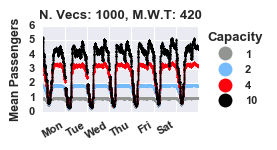
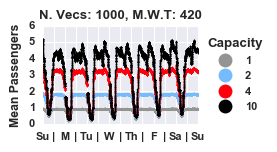
Add better xticklabels for ts plot

diff --git a/scripts/plot_metrics.py b/scripts/plot_metrics.py
@@ -117,7 +117,7 @@ def plot_ts(df, field, *args, **kwargs):
             dts.append(dt)
             vals.append(values.iloc[i])
     dts = matplotlib.dates.date2num(dts)
-    return plt.plot_date(dts, vals, *args, **kwargs)
+    return plt.plot_date(dts, vals, *args, **kwargs), dts
 
 
 def set_legend_marker_size(lgd, size):
@@ -141,10 +141,21 @@ def make_ts_plot(vecs, wt, rb, field):
     for cap, clr in zip(caps, clrs):
         df = get_metrics(vecs, cap, wt, 0)
         locs, labels = plt.xticks()
-        plot_ts(df, field, "o", color=clr, alpha=1,
-                label=str(cap), markersize=1)
-    # ax.xaxis.set_major_formatter(fmt)
-    ax.set_xticklabels(["Mon", "Tue", "Wed", "Thu", "Fri", "Sat"])
+        _, dts = plot_ts(df, field, "o", color=clr, alpha=1,
+                         label=str(cap), markersize=1)
+    ticks = [min(dts)] + list(ax.get_xticks()) + [max(dts)]
+    new_ticks = list()
+    for i in xrange(len(ticks) - 1):
+        new_ticks.append(ticks[i])
+        new_ticks.append(0.5 * (ticks[i] + ticks[i + 1]))
+    new_ticks.append(ticks[-1])
+    ax.set_xticks(new_ticks)
+    short_days = ["Su", "M", "Tu", "W", "Th", "F", "Sa", "Su"]
+    ticklabels = list()
+    for sd in short_days[:-1]:
+        ticklabels.extend([sd, "|"])
+    ticklabels.append(short_days[-1])
+    ax.set_xticklabels(ticklabels)
     lgd = plt.legend(loc="center left", fancybox=True,
                      shadow=True, bbox_to_anchor=(1, 0.5),
                      title="Capacity")
@@ -154,8 +165,7 @@ def make_ts_plot(vecs, wt, rb, field):
         ax.set_ylim([0, 1])
         vals = ax.get_yticks()
         ax.set_yticklabels(['{:3.0f}%'.format(x * 100) for x in vals])
-    fig.autofmt_xdate()
-    # plt.title("N. Vecs: {}, M.W.T: {}".format(vecs, wt), fontweight="bold")
+    # fig.autofmt_xdate()
     plt.title("N. Vecs: {}, M.W.T: {}".format(vecs, wt))
     plt.savefig("figs/ts-{}-v{}-w{}.png".format(field, vecs, wt),
                 bbox_extra_artists=(lgd,), bbox_inches='tight')
